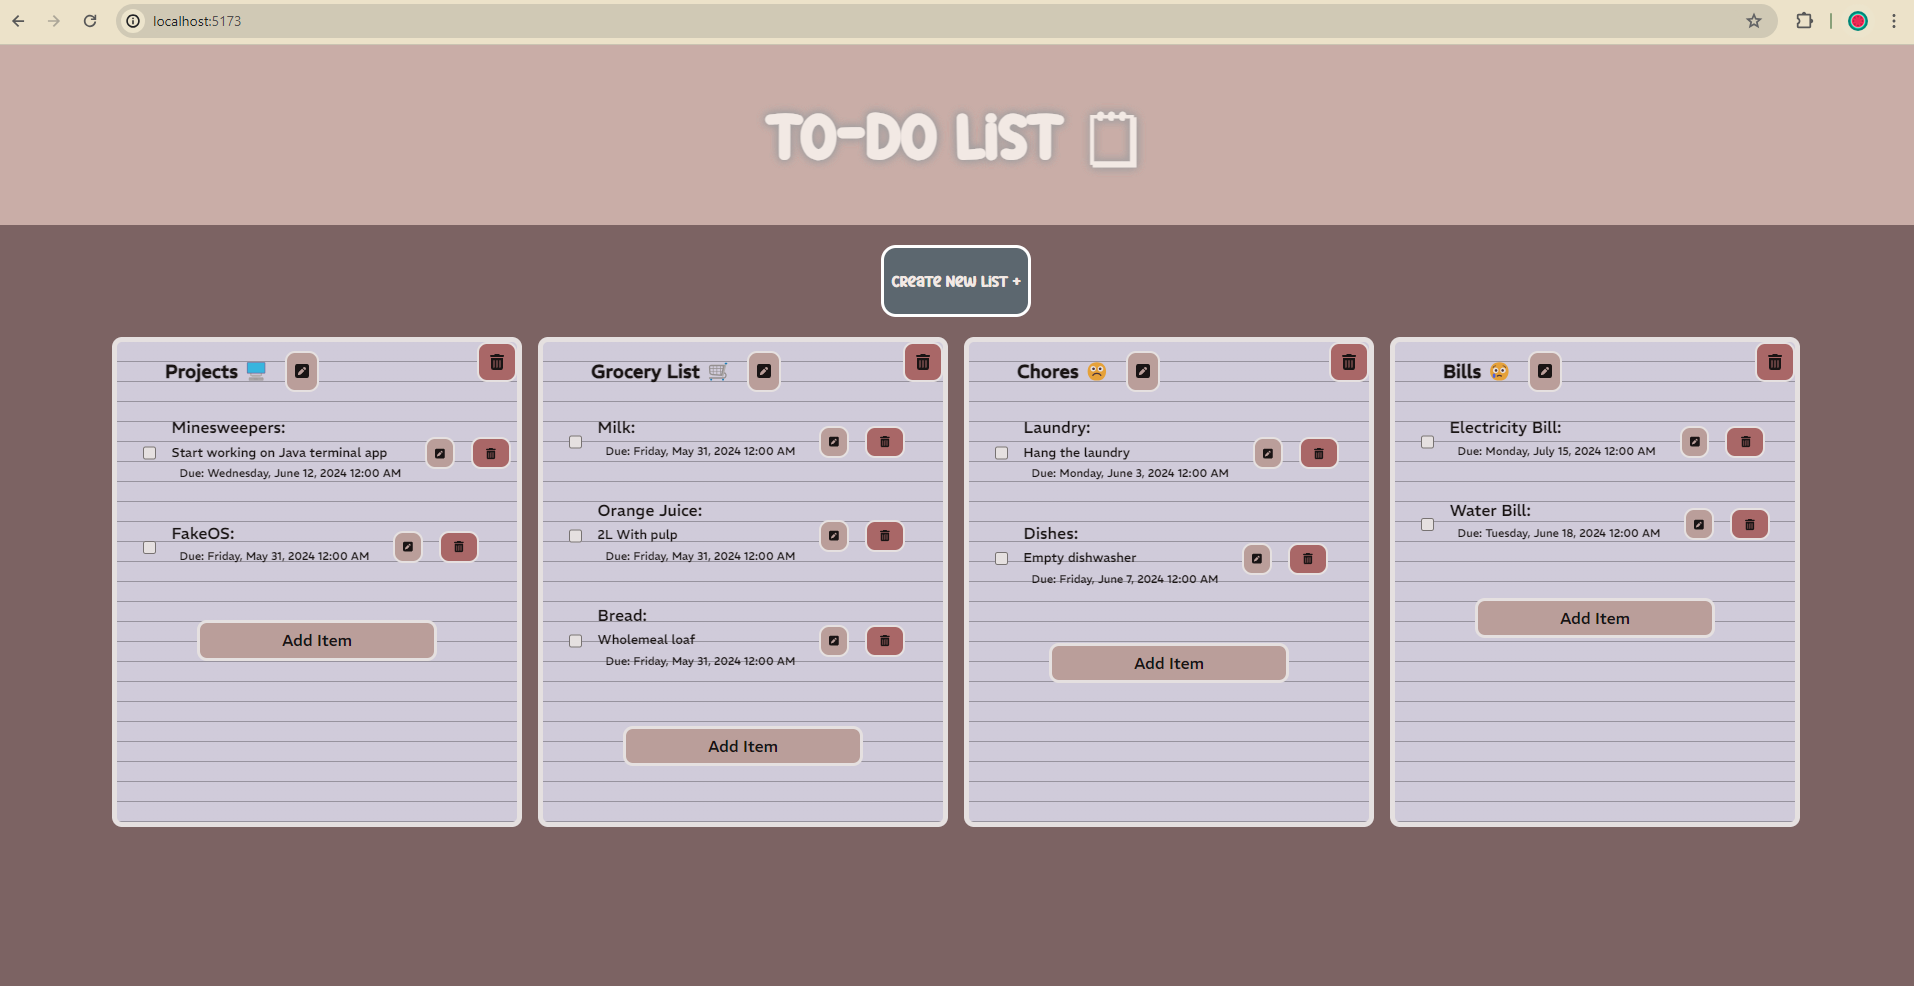
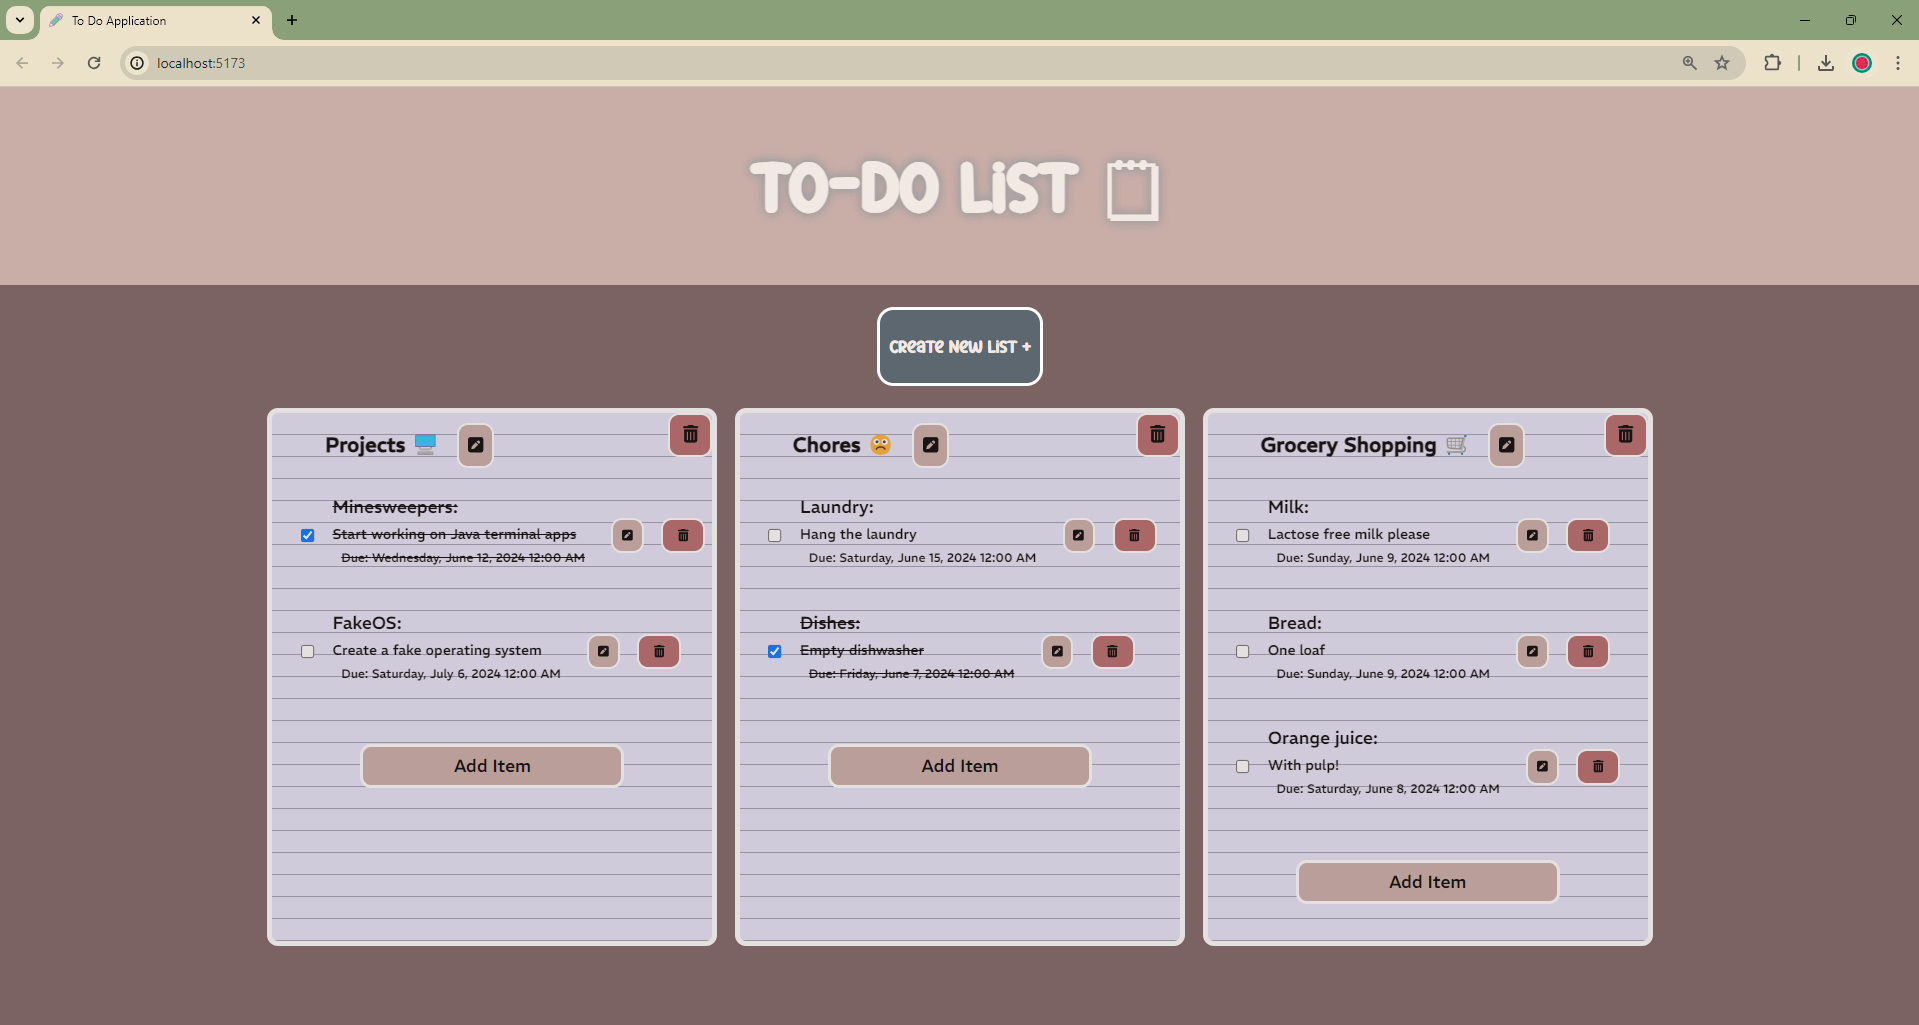
updated readme

diff --git a/README.md b/README.md
@@ -1,16 +1,28 @@
 # To Do App 📝
 
-A simple react to do list application!
+A simple react to do list application to help organise your tasks for the day!
 
 ![Screenshot](/src/assets/todo.png)
 
+Link to backend: [Backend Repo](https://github.com/mcelle888/todo-backend)
+
 
 ## Key features
+- Ability to create, update and delete lists and list items
+- Ability to cross out completed items
+- Testing for each component
 
 ## Tech stack
+React | TypeScript | SCSS
 
-## Improvements
+## Future Additions & Improvements
+- Add toast notification for user feedback
+- Sort and filtering system
+- Pagination
+- Deployment
 
-## Change Log
+
+### Change log
 
 03/06/2024 {Bugfix and breaking down components}
+- Fixed an bug where clicking checkbox was not updating done property and showing linethough list items. 
